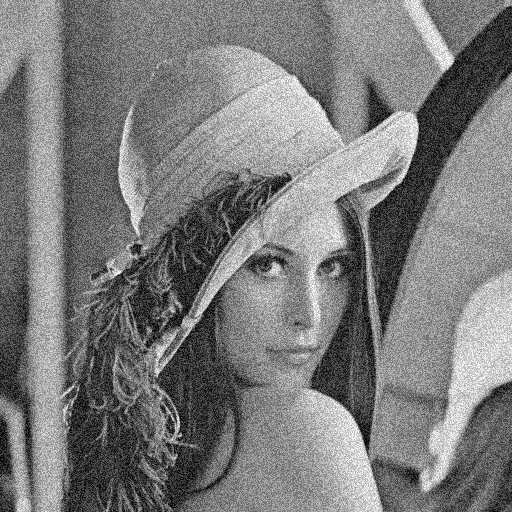
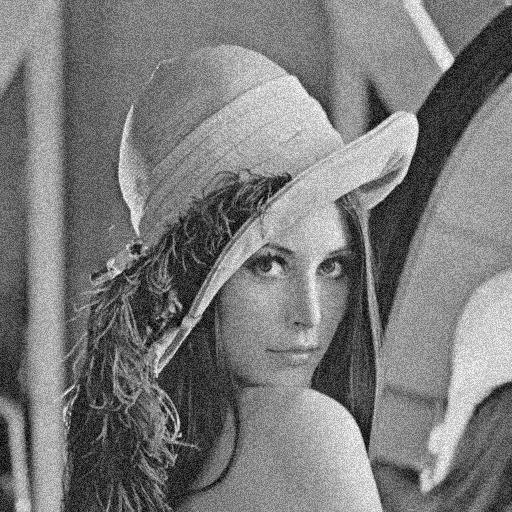
updat arithmetic, geometric, harmonic and contrahamornic filter

diff --git a/Filtering.py b/Filtering.py
@@ -20,6 +20,8 @@ class Filter(tk.Tk):
         self.filter_h = None
         self.filter_w = None
         self.res = None
+        self.order = None
+        self.filter_type = None
 
         self.title("IMAGE FILTERING")
         self.configure(background='black')
@@ -28,13 +30,24 @@ class Filter(tk.Tk):
 
         #This is to display degraded_image
         self.PIL_image = Image.open(self.path)
+        self.width, self.height = self.PIL_image.size
         self.image_noise = ImageTk.PhotoImage(self.PIL_image)
         noise_image_label = Label(self, image=self.image_noise)
         noise_image_label.pack(side=LEFT)
 
-        # List of all Filter
-        self.arithmetic_button = Button(self, text=" Arithmetic Mean Filter", fg="blue", font=("", 20), command=self.arithmetic_mean)
+        #All Filters
+        self.arithmetic_button = Button(self, text=" Arithmetic Mean Filter", fg="blue", font=("", 20), command= lambda: self.arithmetic_mean("arithmetic"))
         self.arithmetic_button.pack(side=TOP, fill=BOTH)
+
+        self.geometric_button = Button(self, text=" Geometric Mean Filter", fg="blue", font=(" ", 20),command=lambda: self.geometric_mean("geometric"))
+        self.geometric_button.pack(side=TOP, fill=BOTH)
+
+        self.harmonic_button = Button(self, text=" Harmonic Mean Filter", fg="blue", font=("", 20), command=lambda: self.harmonic_mean("harmonic"))
+        self.harmonic_button.pack(side=TOP, fill=BOTH)
+
+        self.contra_harmonic_button = Button(self, text=" Contraharmonic Mean Filter", fg="blue", font=("", 20),
+                                             command=lambda: self.contraharmonic_mean("contraharmonic"))
+        self.contra_harmonic_button.pack(side=TOP, fill=BOTH)
 
         self.median_button = Button(self, text="Median Filter", fg="blue", font=("", 20), command=self.print)
         self.median_button.pack(side=TOP, fill=BOTH)
@@ -48,16 +61,6 @@ class Filter(tk.Tk):
         self.adaptive_button = Button(self, text="Adaptive Filter", fg="blue", font=("", 20), command=self.print)
         self.adaptive_button.pack(side=TOP, fill=BOTH)
 
-        # mean
-        self.geometric_button = Button(self, text=" Geometric Mean Filter", fg="blue", font=("", 20),command=self.print)
-        self.geometric_button.pack(side=TOP, fill=BOTH)
-
-        self.harmonic_button = Button(self, text=" Harmonic Mean Filter", fg="blue", font=("", 20), command=self.print)
-        self.harmonic_button.pack(side=TOP, fill=BOTH)
-
-        self.contra_harmonic_button = Button(self, text=" Contraharmonic Mean Filter", fg="blue", font=("", 20),command=self.print)
-        self.contra_harmonic_button.pack(side=TOP, fill=BOTH)
-
         self.trimmed_button = Button(self, text="Alpha Trimmed Mean Filter", fg="blue", font=("", 20), command=self.print)
         self.trimmed_button.pack(side=TOP, fill=BOTH)
 
@@ -65,19 +68,20 @@ class Filter(tk.Tk):
         self.restart_button.pack(side=BOTTOM)
 
 
+
     def print(self):
         print("hello")
 
 
-    def arithmetic_mean(self):
+    def arithmetic_mean(self,filter_type):
+        self.filter_type = filter_type
         self.get_filter_size()
         pad_h = int(1 / 2 * (self.filter_h - 1))  # think there should be +.5
         pad_w = int(1 / 2 * (self.filter_w - 1))
         image_pad = np.pad(self.PIL_image, ((pad_h, pad_h), (pad_w, pad_w)), 'constant', constant_values=0)
-        width, height = self.PIL_image.size
-        filtered_image = np.zeros((height, width))
-        for h in range(height):
-            for w in range(width):
+        filtered_image = np.zeros((self.height, self.width))
+        for h in range(self.height):
+            for w in range(self.width):
                 vert_start = h
                 vert_end = h + self.filter_h
                 horiz_start = w
@@ -86,14 +90,102 @@ class Filter(tk.Tk):
                 filtered_image[h, w] = 1 / (self.filter_h * self.filter_w) * np.sum(image_slice)
 
         self.filtered_image_result = self.full_contrast_stretch(filtered_image)
-
         self.save_image()
         self.display_image()
+
+    def geometric_mean(self,filter_type):
+        self.filter_type = filter_type
+        self.get_filter_size()
+        pad_h = int(1 / 2 * (self.filter_h - 1))  # think there should be +.5
+        pad_w = int(1 / 2 * (self.filter_w - 1))
+        image_pad = np.pad(self.PIL_image, ((pad_h, pad_h), (pad_w, pad_w)), 'constant', constant_values=0)
+
+        filtered_image = np.zeros((self.height, self.width))
+        for h in range(self.height):
+            for w in range(self.width):
+                vert_start = h
+                vert_end = h + self.filter_h
+                horiz_start = w
+                horiz_end = w + self.filter_w
+                image_slice = image_pad[vert_start:vert_end, horiz_start:horiz_end]
+                continuous_product = 1.0
+                for f_h in range(self.filter_h):
+                    for f_w in range(self.filter_w):
+                        continuous_product *= image_slice[f_h, f_w]
+                filtered_image[h, w] = np.power(continuous_product, 1/(self.filter_h * self.filter_w))
+
+        self.filtered_image_result = self.full_contrast_stretch(filtered_image)
+        self.save_image()
+        self.display_image()
+
+    def harmonic_mean(self,filter_type):
+        self.filter_type = filter_type
+        self.get_filter_size()
+        pad_h = int(1 / 2 * (self.filter_h - 1))  # think there should be +.5
+        pad_w = int(1 / 2 * (self.filter_w - 1))
+        image_pad = np.pad(self.PIL_image, ((pad_h, pad_h), (pad_w, pad_w)), 'constant', constant_values=0)
+
+        filtered_image = np.zeros((self.height, self.width))
+        for h in range(self.height):
+            for w in range(self.width):
+                vert_start = h
+                vert_end = h + self.filter_h
+                horiz_start = w
+                horiz_end = w + self.filter_w
+                image_slice = image_pad[vert_start:vert_end, horiz_start:horiz_end]
+                continuous_inverse_summary = 0
+                for f_h in range(self.filter_h):
+                    for f_w in range(self.filter_w):
+                        if image_slice[f_h, f_w] != 0:
+                            continuous_inverse_summary += 1 / image_slice[f_h, f_w]
+                filtered_image[h, w] = self.filter_h * self.filter_w / continuous_inverse_summary
+
+        self.filtered_image_result = self.full_contrast_stretch(filtered_image)
+        self.save_image()
+        self.display_image()
+
+    def contraharmonic_mean(self,filter_type):
+        self.filter_type = filter_type
+        self.get_filter_size()
+        pad_h = int(1 / 2 * (self.filter_h - 1))  # think there should be +.5
+        pad_w = int(1 / 2 * (self.filter_w - 1))
+        image_pad = np.pad(self.PIL_image, ((pad_h, pad_h), (pad_w, pad_w)), 'constant', constant_values=0)
+        filtered_image = np.zeros((self.height, self.width))
+
+        for h in range(self.height):
+            for w in range(self.width):
+                vert_start = h
+                vert_end = h + self.filter_h
+                horiz_start = w
+                horiz_end = w + self.filter_w
+                image_slice = image_pad[vert_start:vert_end, horiz_start:horiz_end]
+                continuous_power_summary1 = 0
+                continuous_power_summary2 = 0
+
+                if self.order > 0:
+                    for f_h in range(self.filter_h):
+                        for f_w in range(self.filter_w):
+                            continuous_power_summary1 += np.power(image_slice[f_h, f_w], self.order + 1)
+                            continuous_power_summary2 += np.power(image_slice[f_h, f_w], self.order)
+                else:
+                    for f_h in range(self.filter_h):
+                        for f_w in range(self.filter_w):
+                            if image_slice[f_h, f_w]:
+                                continuous_power_summary1 += np.power(image_slice[f_h, f_w], self.order + 1)
+                                continuous_power_summary2 += np.power(image_slice[f_h, f_w], self.order)
+                if continuous_power_summary2:
+                    filtered_image[h, w] = continuous_power_summary1 / continuous_power_summary2
+                else:
+                    filtered_image[h, w] = 0
+
+        self.filtered_image_result = self.full_contrast_stretch(filtered_image)
+        self.save_image()
+        self.display_image()
+
 
     def compute_histogram(self):
         self.destroy()
         After_Analysis(self.filter_image_path)
-
     def display_image(self):
         self.result_frame = tk.Toplevel()
         self.result_frame.title("Restored Image")
@@ -117,40 +209,52 @@ class Filter(tk.Tk):
 
         button2 = Button(self.result_frame, text="Compute Histogram", fg="blue", font=("", 20),command=self.compute_histogram)
         button2.pack(side=TOP, fill=BOTH)
-
-    def get_hw(self):
+    def get_hwo(self):
         self.filter_h = int(self.my_entry_h.get())
         self.filter_w = int(self.my_entry_w.get())
+        if(self.filter_type == "contraharmonic"):
+            self.order = int(self.my_entry_order.get())
         self.update()
         self.input_window.destroy()
-        # print("H and W saved" )
+
+
     def full_contrast_stretch(self, image):
         min_pixel = np.min(image)
         max_pixel = np.max(image)
         image = np.uint8(255 / (max_pixel - min_pixel) * (image - min_pixel) + 0.5)
         return image
-
-    # This will update height and width of filter
     def get_filter_size(self):
+
         # This is getting user input
         self.input_window = tk.Toplevel()
         self.input_window.title("Filter Size")
-
         label = tk.Label(self.input_window, text="Filter Dimension", font=(" ", 20))
         label.grid(row=0, column=1)
 
         height = tk.Label(self.input_window, text="Height:")
         width = tk.Label(self.input_window, text="weight:")
+
+
         height.grid(row=1, column=0, sticky=W)
         width.grid(row=2, column=0, sticky=W)
+
 
         self.my_entry_h = tk.Entry(self.input_window)
         self.my_entry_w = tk.Entry(self.input_window)
 
+
         self.my_entry_h.grid(row=1, column=1)
         self.my_entry_w.grid(row=2, column=1)
-        my_button = tk.Button(self.input_window, text="Submit", command=self.get_hw)
-        my_button.grid(row=3, column=1)
+
+
+        if(self.filter_type == "contraharmonic"):
+            order = tk.Label(self.input_window, text="order:")
+            order.grid(row=3, column=0, sticky=W)
+            self.my_entry_order = tk.Entry(self.input_window)
+            self.my_entry_order.grid(row=3, column=1)
+
+        my_button = tk.Button(self.input_window, text="Submit", command=self.get_hwo)
+        my_button.grid(row=4, column=1)
         self.wait_window(self.input_window)
 
     def save_image(self):
@@ -159,6 +263,5 @@ class Filter(tk.Tk):
         self.filter_image_path = output_dir + self.image_name + ".png"
         # filtered_path = output_dir + 'Arithmetic_Result' + ".png"
         cv2.imwrite(self.filter_image_path, self.filtered_image_result)
-
     def restart(self):
         restart.restart_program(self)
